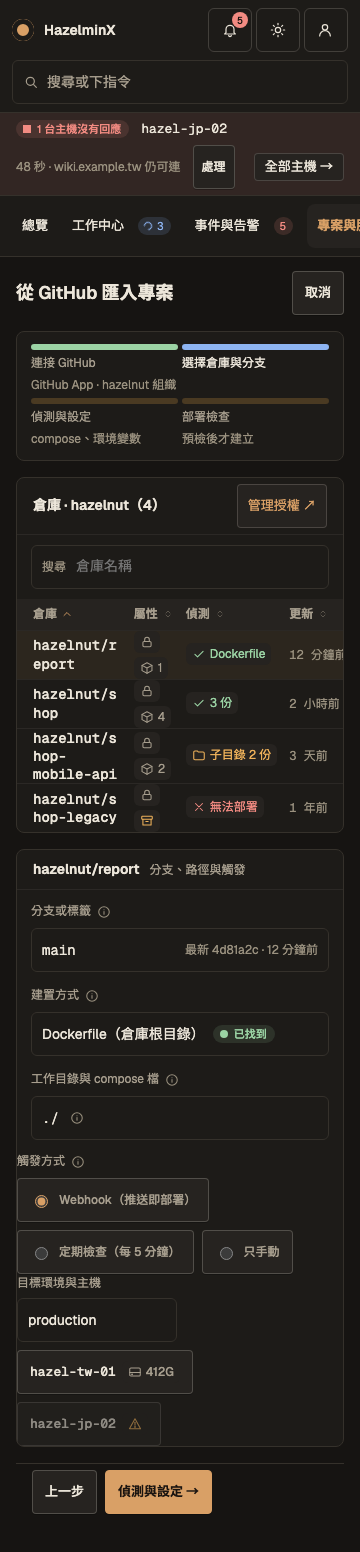
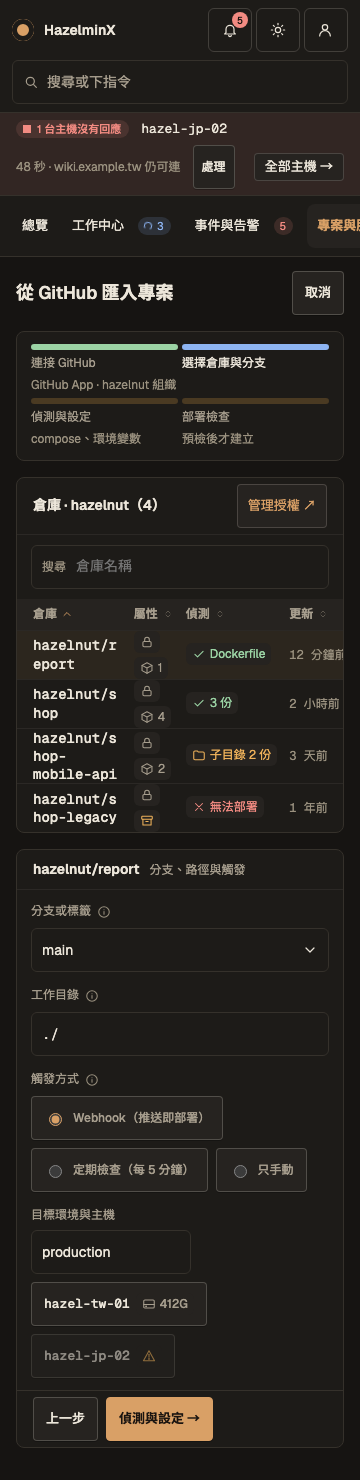
design: drop the fake build-method field on the GitHub source board

diff --git a/design/screens/GitHubSource.dc.html b/design/screens/GitHubSource.dc.html
@@ -512,9 +512,8 @@ body{margin:0}
     <section class="panel" aria-labelledby="h-br">
       <div class="ph"><h2 id="h-br">hazelnut/report</h2><span class="sub">分支、路徑與觸發</span></div>
       <div style="padding: 12px 14px; display: flex; flex-direction: column; gap: 14px">
-        <div class="field"><label for="br">分支或標籤 <span class="hint" tabindex="0" role="img" aria-label="之後每次推送到這個分支都會建立變更計畫；高風險變更先暫停等批准。" data-tip="之後每次推送到這個分支都會建立變更計畫；高風險變更先暫停等批准。"><svg viewBox="0 0 24 24" width="14" height="14" fill="none" stroke="currentColor" stroke-width="1.8" stroke-linecap="round" stroke-linejoin="round" aria-hidden="true"><circle cx="12" cy="12" r="9"/><path d="M12 11v5M12 8h.01"/></svg></span></label><div class="inp"><span class="mono">main</span><span class="note" style="margin-left:auto">最新 4d81a2c · 12 分鐘前</span></div></div>
-        <div class="field"><label for="path">建置方式 <span class="hint" tabindex="0" role="img" aria-label="沒有 compose 檔，當成單一服務部署" data-tip="沒有 compose 檔，當成單一服務部署"><svg viewBox="0 0 24 24" width="14" height="14" fill="none" stroke="currentColor" stroke-width="1.8" stroke-linecap="round" stroke-linejoin="round" aria-hidden="true"><circle cx="12" cy="12" r="9"/><path d="M12 11v5M12 8h.01"/></svg></span></label><div class="inp"><span>Dockerfile（倉庫根目錄）</span><span class="st ok"><i aria-hidden="true"></i>已找到</span></div></div>
-        <div class="field"><label for="wd">工作目錄與 compose 檔 <span class="hint" tabindex="0" role="img" aria-label="下一步一定要指定主檔；repo 裡新舊檔名的 compose 檔都會列出" data-tip="下一步一定要指定主檔；repo 裡新舊檔名的 compose 檔都會列出"><svg viewBox="0 0 24 24" width="14" height="14" fill="none" stroke="currentColor" stroke-width="1.8" stroke-linecap="round" stroke-linejoin="round" aria-hidden="true"><circle cx="12" cy="12" r="9"/><path d="M12 11v5M12 8h.01"/></svg></span></label><div class="inp"><span class="mono">./</span><span class="hint" tabindex="0" role="img" aria-label="monorepo 時改成子目錄，例如 ./deploy" data-tip="monorepo 時改成子目錄，例如 ./deploy"><svg viewBox="0 0 24 24" width="14" height="14" fill="none" stroke="currentColor" stroke-width="1.8" stroke-linecap="round" stroke-linejoin="round" aria-hidden="true"><circle cx="12" cy="12" r="9"/><path d="M12 11v5M12 8h.01"/></svg></span></div></div></div>
+        <div class="field"><label>分支或標籤 <span class="hint" tabindex="0" role="img" aria-label="最新 4d81a2c · 12 分鐘前" data-tip="最新 4d81a2c · 12 分鐘前"><svg viewBox="0 0 24 24" width="14" height="14" fill="none" stroke="currentColor" stroke-width="1.8" stroke-linecap="round" stroke-linejoin="round" aria-hidden="true"><circle cx="12" cy="12" r="9"/><path d="M12 11v5M12 8h.01"/></svg></span></label><div class="inp"><span style="flex:1;min-width:0;overflow-wrap:anywhere">main</span><svg viewBox="0 0 24 24" width="16" height="16" fill="none" stroke="currentColor" stroke-width="1.8" stroke-linecap="round" stroke-linejoin="round" aria-hidden="true"><path d="m6 9 6 6 6-6"/></svg></div></div>
+        <div class="field"><label>工作目錄 <span class="hint" tabindex="0" role="img" aria-label="monorepo 改成子目錄，例如 ./deploy" data-tip="monorepo 改成子目錄，例如 ./deploy"><svg viewBox="0 0 24 24" width="14" height="14" fill="none" stroke="currentColor" stroke-width="1.8" stroke-linecap="round" stroke-linejoin="round" aria-hidden="true"><circle cx="12" cy="12" r="9"/><path d="M12 11v5M12 8h.01"/></svg></span></label><div class="inp"><span class="mono" style="flex:1;min-width:0;overflow-wrap:anywhere">./</span></div></div>
         <div class="field"><label>觸發方式 <span class="hint" tabindex="0" role="img" aria-label="Webhook 會在 GitHub 上建立；沒有公開入口時自動改用定期檢查。" data-tip="Webhook 會在 GitHub 上建立；沒有公開入口時自動改用定期檢查。"><svg viewBox="0 0 24 24" width="14" height="14" fill="none" stroke="currentColor" stroke-width="1.8" stroke-linecap="round" stroke-linejoin="round" aria-hidden="true"><circle cx="12" cy="12" r="9"/><path d="M12 11v5M12 8h.01"/></svg></span></label><div class="wrap"><label class="btn" style="gap:8px"><input type="radio" name="trig" aria-label="觸發方式" checked style="accent-color: var(--hazel)">Webhook（推送即部署）</label><label class="btn" style="gap:8px"><input type="radio" name="trig" aria-label="觸發方式" style="accent-color: var(--hazel)">定期檢查（每 5 分鐘）</label><label class="btn" style="gap:8px"><input type="radio" name="trig" aria-label="觸發方式" style="accent-color: var(--hazel)">只手動</label></div></div>
         <div class="field"><label for="env">目標環境與主機</label><div class="wrap"><div class="inp" style="width:auto;min-width:160px"><span>production</span></div><div class="wrap" role="radiogroup" aria-label="目標主機"><button type="button" class="btn on" role="radio" aria-checked="true"><span class="mono">hazel-tw-01</span><span class="at " tabindex="0" role="img" aria-label="/mnt/data 可用 412 GiB" data-tip="/mnt/data 可用 412 GiB"><svg viewBox="0 0 24 24" width="14" height="14" fill="none" stroke="currentColor" stroke-width="1.8" stroke-linecap="round" stroke-linejoin="round" aria-hidden="true"><rect x="3" y="5" width="18" height="14" rx="2"/><path d="M3 13h18"/><circle cx="7" cy="16" r=".7"/></svg><span>412G</span></span></button><button type="button" class="btn" role="radio" aria-checked="false" aria-disabled="true" style="opacity:.55"><span class="mono">hazel-jp-02</span><span class="at warn" tabindex="0" role="img" aria-label="不可選：沒有回應、資料碟 93%" data-tip="不可選：沒有回應、資料碟 93%"><svg viewBox="0 0 24 24" width="14" height="14" fill="none" stroke="currentColor" stroke-width="1.8" stroke-linecap="round" stroke-linejoin="round" aria-hidden="true"><path d="M12 3 2.5 20h19L12 3z"/><path d="M12 9v5"/><circle cx="12" cy="17" r=".6"/></svg></span></button></div></div></div>
       </div>

diff --git a/design/tools/build_screens.py b/design/tools/build_screens.py
@@ -776,9 +776,8 @@ def github_source() -> str:
     <section class="panel" aria-labelledby="h-br">
       <div class="ph"><h2 id="h-br">hazelnut/report</h2><span class="sub">分支、路徑與觸發</span></div>
       <div style="padding: 12px 14px; display: flex; flex-direction: column; gap: 14px">
-        <div class="field"><label for="br">分支或標籤</label><div class="inp"><span class="mono">main</span><span class="note" style="margin-left:auto">最新 4d81a2c · 12 分鐘前</span></div><span class="help">之後每次推送到這個分支都會建立變更計畫；高風險變更先暫停等批准。</span></div>
-        <div class="field"><label for="path">建置方式</label><div class="inp"><span>Dockerfile（倉庫根目錄）</span>{U.status("ok", "已找到")}</div><span class="help">沒有 compose 檔，當成單一服務部署</span></div>
-        <div class="field"><label for="wd">工作目錄與 compose 檔</label><div class="inp"><span class="mono">./</span><span class="note" style="margin-left:auto">monorepo 時改成子目錄，例如 ./deploy</span></div><span class="help">下一步一定要指定主檔；repo 裡新舊檔名的 compose 檔都會列出</span></div></div>
+        {_fld("分支或標籤", _dd("main"), "最新 4d81a2c · 12 分鐘前")}
+        {_fld("工作目錄", _in("./", mono=True), "monorepo 改成子目錄，例如 ./deploy")}
         <div class="field"><label>觸發方式</label><div class="wrap"><label class="btn" style="gap:8px"><input type="radio" name="trig" aria-label="觸發方式" checked style="accent-color: var(--hazel)">Webhook（推送即部署）</label><label class="btn" style="gap:8px"><input type="radio" name="trig" aria-label="觸發方式" style="accent-color: var(--hazel)">定期檢查（每 5 分鐘）</label><label class="btn" style="gap:8px"><input type="radio" name="trig" aria-label="觸發方式" style="accent-color: var(--hazel)">只手動</label></div><span class="help">Webhook 會在 GitHub 上建立；沒有公開入口時自動改用定期檢查。</span></div>
         <div class="field"><label for="env">目標環境與主機</label><div class="wrap"><div class="inp" style="width:auto;min-width:160px"><span>production</span></div><div class="wrap" role="radiogroup" aria-label="目標主機"><button type="button" class="btn on" role="radio" aria-checked="true"><span class="mono">hazel-tw-01</span>{U.attr("storage", "/mnt/data 可用 412 GiB", "412G")}</button><button type="button" class="btn" role="radio" aria-checked="false" aria-disabled="true" style="opacity:.55"><span class="mono">hazel-jp-02</span>{U.attr("attention", "不可選：沒有回應、資料碟 93%", "", "warn")}</button></div></div></div>
       </div>
